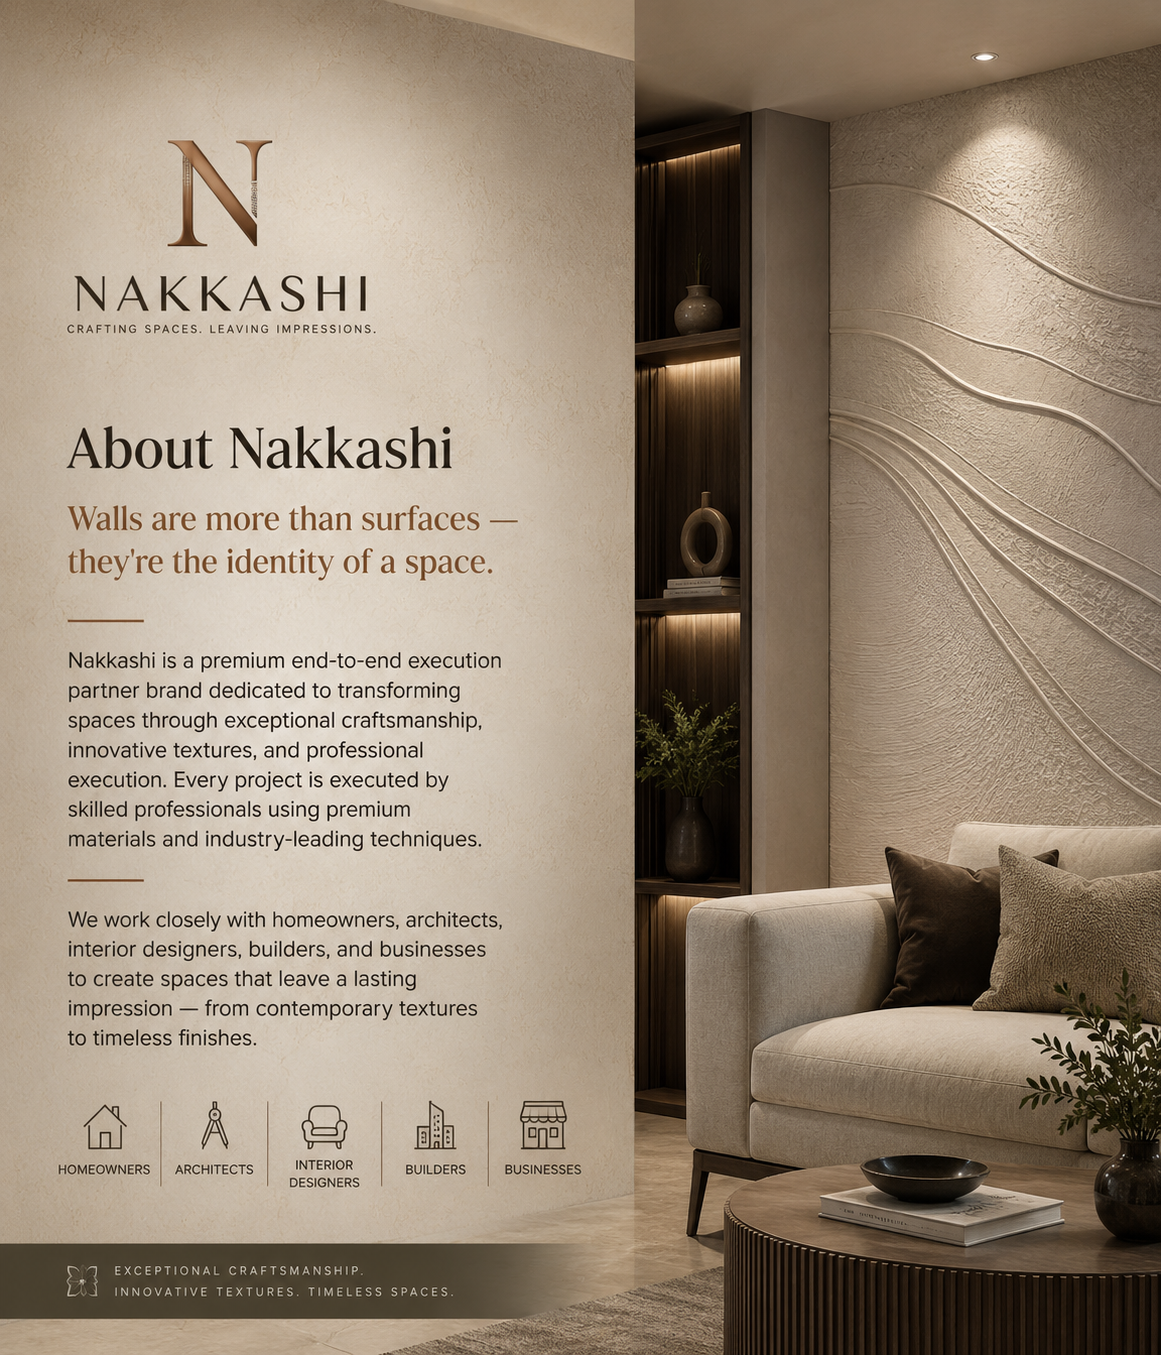
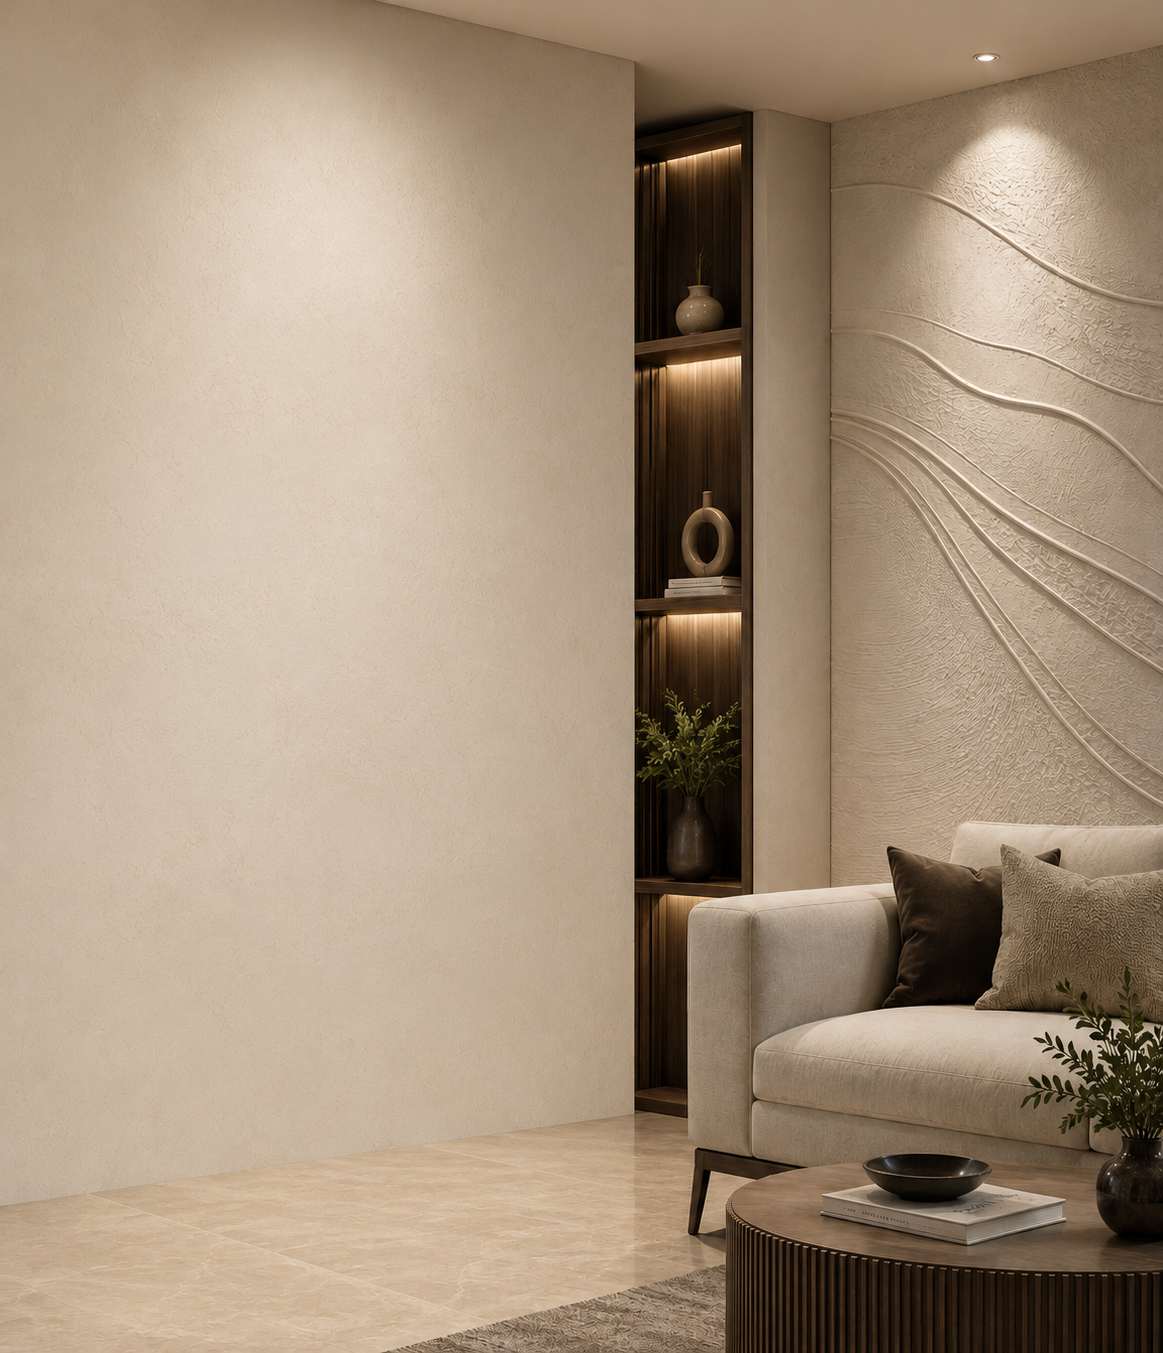
responsive

diff --git a/src/styles/global.css b/src/styles/global.css
@@ -127,9 +127,18 @@ section { position: relative; }
   white-space: nowrap;
 }
 .offer-cta:hover { background: var(--gold-soft); transform: translateY(-1px); }
+.offer-marquee { display: none; }
 @media (max-width: 640px) {
   .offer-label { display: none; }
   .offer-strip { gap: .6rem; font-size: .76rem; }
+  .offer-text { display: none; }
+  .offer-cta { display: none; }
+  .offer-strip::after { display: none; }
+  .offer-marquee {
+    display: block; width: 100%;
+    color: rgba(247, 243, 234, .92); font-size: .78rem;
+  }
+  .offer-marquee strong { color: var(--gold); font-weight: 700; }
 }
 
 /* ============ HEADER / NAV ============ */
@@ -139,6 +148,7 @@ section { position: relative; }
   backdrop-filter: blur(14px);
   border-bottom: 1px solid var(--line);
   transition: box-shadow .3s;
+  overflow: visible;
 }
 .site-header.scrolled { box-shadow: 0 12px 30px -18px rgba(2, 32, 68, .35); }
 nav.primary {
@@ -147,7 +157,11 @@ nav.primary {
 }
 .brand { display: flex; align-items: center; padding-top: .9rem; }
 .brand img { height: 100px; width: auto; }
-@media (max-width: 560px) { .brand img { height: 72px; } }
+@media (max-width: 560px) {
+  .brand img { height: 52px; }
+  .brand { padding-top: 0; }
+  nav.primary { height: 60px; }
+}
 
 /* nav search */
 .nav-search {
@@ -234,15 +248,16 @@ nav.primary {
 .hamburger span { width: 26px; height: 2px; background: var(--navy); transition: .3s; }
 @media (max-width: 1024px) {
   .navlinks {
-    position: fixed; inset: 84px 0 auto 0;
+    position: absolute; top: 100%; left: 0; right: 0;
     flex-direction: column; background: var(--paper);
     padding: 1.5rem 6%; gap: 1.3rem;
     border-bottom: 1px solid var(--line);
-    transform: translateY(-150%);
-    transition: transform .4s ease;
+    transform: translateY(-8px); opacity: 0; pointer-events: none; visibility: hidden;
+    transition: transform .3s ease, opacity .3s ease, visibility .3s;
     align-items: flex-start;
+    z-index: 99;
   }
-  .navlinks.open { transform: translateY(0); }
+  .navlinks.open { transform: translateY(0); opacity: 1; pointer-events: auto; visibility: visible; }
   .hamburger { display: flex; }
   .nav-cta .btn { display: none; }
 }
@@ -417,11 +432,18 @@ nav.primary {
 }
 .swatch .meta .h { font-family: var(--display); font-size: 1.05rem; line-height: 1.1; }
 .swatch .meta .c { font-size: .72rem; letter-spacing: .14em; color: var(--muted); margin-top: .25rem; }
+.swatch { cursor: pointer; }
 .swatch.s1 { transform: rotate(-13deg) translate(-46px, 18px); z-index: 1; }
 .swatch.s2 { transform: rotate(-1deg) translate(8px, -6px); z-index: 2; }
 .swatch.s3 { transform: rotate(12deg) translate(62px, 30px); z-index: 3; }
 .swatch-stack:hover .s1 { transform: rotate(-20deg) translate(-70px, 18px); }
 .swatch-stack:hover .s3 { transform: rotate(18deg) translate(86px, 30px); }
+.swatch-stack .swatch.active,
+.swatch-stack:hover .swatch.active {
+  transform: rotate(0deg) translate(0, -24px) scale(1.06);
+  z-index: 5;
+  box-shadow: 0 36px 60px -14px rgba(0, 0, 0, .65);
+}
 .float-badge {
   position: absolute; background: rgba(255, 255, 255, .96);
   color: var(--navy-deep); padding: .85rem 1.1rem;
@@ -964,14 +986,14 @@ nav.primary {
 .content-grid.reverse > * { direction: ltr; }
 .content-grid .image-card {
   position: relative; border-radius: 22px; overflow: hidden;
-  aspect-ratio: 4/5; box-shadow: var(--shadow);
+  aspect-ratio: 4/5; min-height: 420px; box-shadow: var(--shadow);
   background: linear-gradient(135deg, var(--navy), var(--navy-deep));
   display: flex; align-items: flex-end; padding: 2rem; color: #fff;
 }
 .content-grid .image-card img {
   position: absolute; inset: 0;
   width: 100%; height: 100%;
-  object-fit: cover; display: block; z-index: 0;
+  object-fit: cover; object-position: center top; display: block; z-index: 0;
 }
 .content-grid .image-card .overlay-tag {
   font-family: var(--display); font-style: italic;
@@ -995,11 +1017,11 @@ nav.primary {
 @media (max-width: 900px) {
   .content-grid { grid-template-columns: 1fr; gap: 1.8rem; }
   .content-grid.reverse { direction: ltr; }
-  .content-grid .image-card { aspect-ratio: 16/9; }
+  .content-grid .image-card { aspect-ratio: 4/3; min-height: 0; }
   .content-grid .image-card .overlay-tag { font-size: 1.1rem; }
 }
 @media (max-width: 520px) {
-  .content-grid .image-card { aspect-ratio: 4/3; border-radius: 16px; }
+  .content-grid .image-card { aspect-ratio: 1/1; min-height: 0; border-radius: 16px; }
   .content-grid .image-card .overlay-tag { display: none; }
 }
 